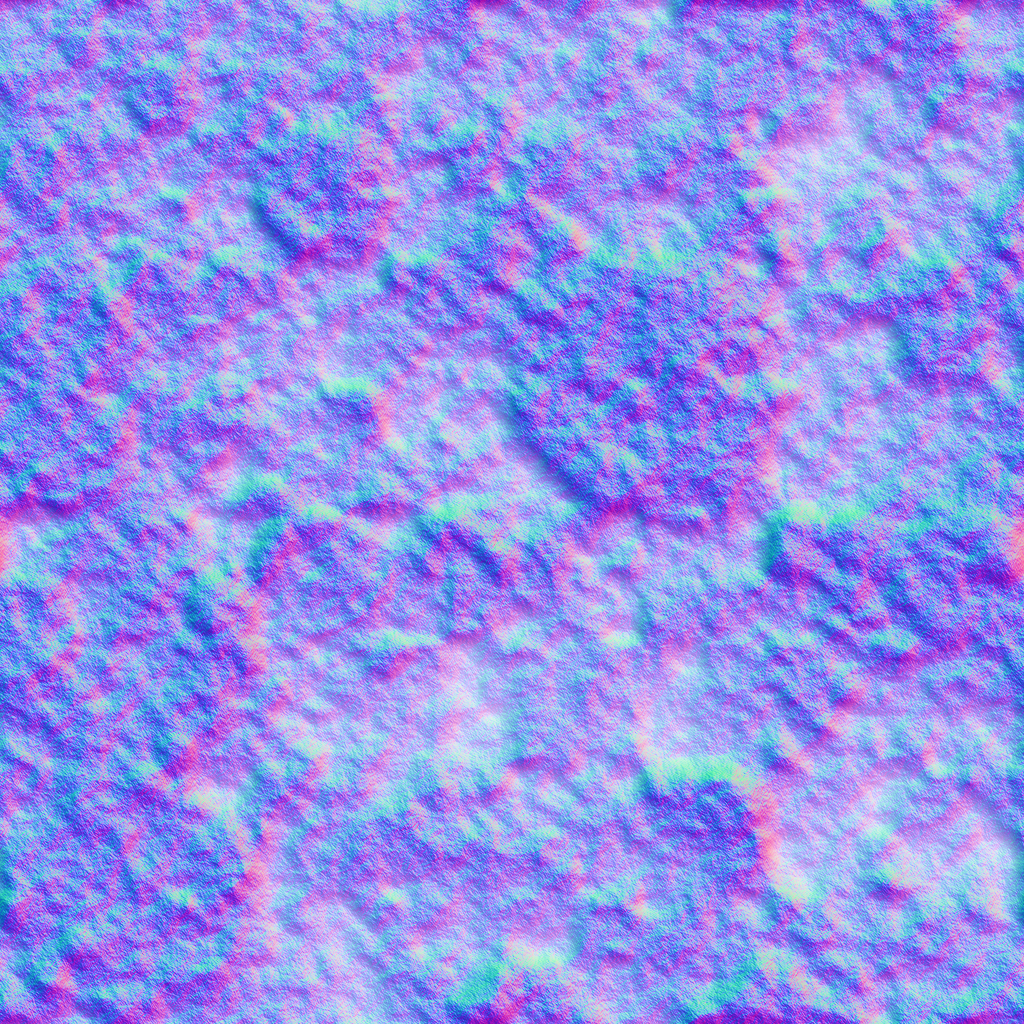
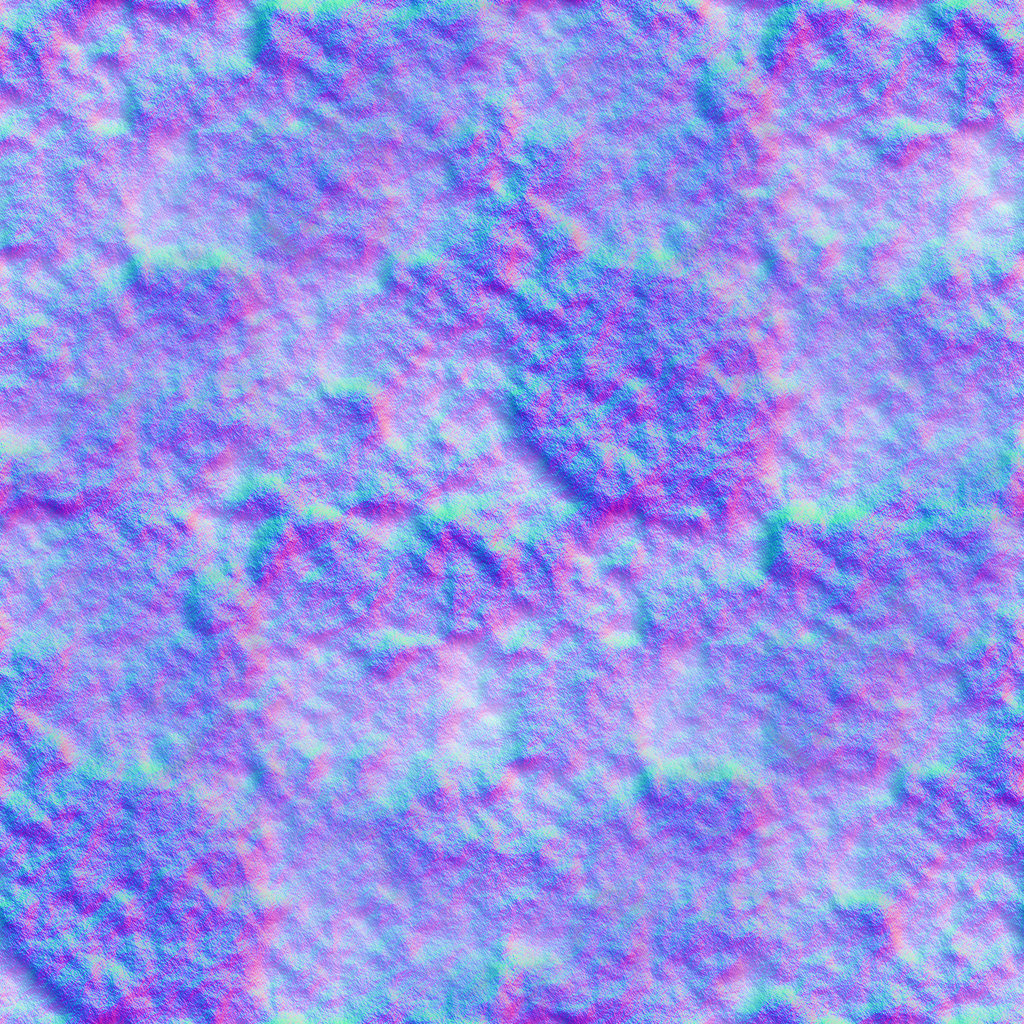
better tiling

diff --git a/scripts/tile.js b/scripts/tile.js
@@ -25,46 +25,182 @@ BSWG.tile = function (image, imgX, imgY, tileMask, color, water) {
     });
 
     var mSize = BSWG.tileMeshSize; //water ? 4 : BSWG.tileMeshSize;
-    this.geom = new THREE.PlaneBufferGeometry(BSWG.tileSizeWorld, BSWG.tileSizeWorld, mSize-1, mSize-1);
+    this.geom = new THREE.PlaneBufferGeometry(BSWG.tileSizeWorld, BSWG.tileSizeWorld, mSize, mSize);
     var verts = this.geom.attributes.position;
-
-    var offset = 0;
+    var norms = this.geom.attributes.normal;
 
     var gSize = BSWG.tileSize / mSize;
-    var sSize = BSWG.tileSizeWorld / (BSWG.tileSize-gSize);
+    var sSize = BSWG.tileSizeWorld / BSWG.tileSize;
 
     if (water) {
         sSize *= 10000.0;
     }
 
-    for (var iy = 0; iy < BSWG.tileSize; iy += gSize) {
-        for (var ix = 0; ix < BSWG.tileSize; ix += gSize) {
+    var offset = 0;
 
-            var x = (ix * sSize - sSize*0.5) * (1 + (water ? 0 : 1.01 / BSWG.tileSize));
-            var y = (-(iy * sSize - sSize*0.5)) * (1 + (water ? 0 : 1.01 / BSWG.tileSize));
+    for (var iy = 0; iy <= BSWG.tileSize; iy += gSize) {
+        for (var ix = 0; ix <= BSWG.tileSize; ix += gSize) {
 
-            var x2 = ix;
-            var y2 = iy;
-            if ((ix + gSize) === BSWG.tileSize) {
-                x2 = BSWG.tileSize - 1;
-            }
-            if ((iy + gSize) === BSWG.tileSize) {
-                y2 = BSWG.tileSize - 1;
-            }
+            var x = (ix * sSize - sSize*0.5) * (1 + (water ? 0 : 1.005 / BSWG.tileSize));
+            var y = (-(iy * sSize - sSize*0.5)) * (1 + (water ? 0 : 1.005 / BSWG.tileSize));
+
+            var x2 = ~~(ix / (BSWG.tileSize) * (BSWG.tileSize-0.001));
+            var y2 = ~~(iy / (BSWG.tileSize) * (BSWG.tileSize-0.001));
 
             var z = BSWG.tileHeightWorld * self.heightMap[x2 + y2*BSWG.tileSize]/255;
 
             verts.array[offset+0] = x;
             verts.array[offset+1] = y;
             verts.array[offset+2] = z;
-            
+          
             offset += 3;
         }
     }
-    //verts.dynamic = true;
+
+    this.geom.computeVertexNormalsTile = function () {
+
+        var index = this.index;
+        var attributes = this.attributes;
+        var groups = this.groups;
+
+        if ( attributes.position ) {
+
+            var positions = attributes.position.array;
+
+            if ( attributes.normal === undefined ) {
+
+                this.addAttribute( 'normal', new THREE.BufferAttribute( new Float32Array( positions.length ), 3 ) );
+
+            } else {
+
+                // reset existing normals to zero
+
+                var array = attributes.normal.array;
+
+                for ( var i = 0, il = array.length; i < il; i ++ ) {
+
+                    array[ i ] = 0;
+
+                }
+
+            }
+
+            var normals = attributes.normal.array;
+
+            var vA, vB, vC,
+
+            pA = new THREE.Vector3(),
+            pB = new THREE.Vector3(),
+            pC = new THREE.Vector3(),
+
+            cb = new THREE.Vector3(),
+            ab = new THREE.Vector3();
+
+            var indices = index.array;
+
+            if ( groups.length === 0 ) {
+
+                this.addGroup( 0, indices.length );
+
+            }
+
+            for ( var j = 0, jl = groups.length; j < jl; ++ j ) {
+
+                var group = groups[ j ];
+
+                var start = group.start;
+                var count = group.count;
+
+                var mask = tileMask;
+
+                var V = function(X, Y) {
+
+                    X *= gSize;
+                    Y *= gSize;
+
+                    var _x = (X * sSize - sSize*0.5) * (1 + (water ? 0 : 1.005 / BSWG.tileSize));
+                    var _y = (-(Y * sSize - sSize*0.5)) * (1 + (water ? 0 : 1.005 / BSWG.tileSize));
+
+                    if ((mask & 1) && (mask & 2) && X<0) {
+                        X = (((X/gSize) + (mSize+1) * 100) % (mSize+1)) * gSize;
+                    }
+                    else if (X<0) {
+                        X = 0;
+                    }
+                    if ((mask & 2) && (mask & 1) && (X/gSize)>mSize) {
+                        X = (((X/gSize) + (mSize+1) * 100) % (mSize+1)) * gSize;
+                    }
+                    else if ((X/gSize)>mSize) {
+                        X = mSize*gSize;
+                    }
+
+                    if ((mask & 4) && (mask & 8) && Y<0) {
+                        Y = (((Y/gSize) + (mSize+1) * 100) % (mSize+1)) * gSize;
+                    }
+                    else if (Y<0) {
+                        Y = 0;
+                    }
+                    if ((mask & 8) && (mask & 4) && (Y/gSize)>mSize) {
+                        Y = (((Y/gSize) + (mSize+1) * 100) % (mSize+1)) * gSize;
+                    }
+                    else if ((Y/gSize)>mSize) {
+                        Y = mSize*gSize;
+                    }
+
+                    var x2 = ~~(X / (BSWG.tileSize) * (BSWG.tileSize-0.001));
+                    var y2 = ~~(Y / (BSWG.tileSize) * (BSWG.tileSize-0.001));
+                    var _z = BSWG.tileHeightWorld * self.heightMap[x2 + y2*BSWG.tileSize]/255;
+
+                    return new THREE.Vector3(_x, _y, _z);
+
+                };
+
+                var off = [
+                    [  1,  0 ],
+                    [  1, -1 ],
+                    [  0, -1 ],
+                    [ -1, -1 ],
+                    [ -1,  0 ],
+                    [ -1,  1 ],
+                    [  0,  1 ],
+                    [  1,  1 ]
+                ]
+
+                var idx = 0;
+                for (var y = 0; y <= mSize; y++) {
+                    for (var x = 0; x <= mSize; x++) {
+
+                        for (var i=0; i<off.length; i++) {
+                            var j = (i+1)%off.length;
+                            pA = V(x, y);
+                            pB = V(x + off[i][0], y + off[i][1]);
+                            pC = V(x + off[j][0], y + off[j][1]);
+
+                            cb.subVectors( pC, pB );
+                            ab.subVectors( pA, pB );
+                            cb.cross( ab );
+
+                            normals[ idx + 0 ] += cb.x;
+                            normals[ idx + 1 ] += cb.y;
+                            normals[ idx + 2 ] += cb.z;
+                        }
+
+                        idx += 3;
+                    }
+                }
+
+            }
+
+            this.normalizeNormals();
+
+            attributes.normal.needsUpdate = true;
+
+        }
+
+    };
 
     this.geom.computeFaceNormals();
-    this.geom.computeVertexNormals();
+    this.geom.computeVertexNormalsTile();
     this.geom.computeBoundingBox();
 
     var lp = BSWG.render.unproject3D(new b2Vec2(BSWG.render.viewport.w*3.0, BSWG.render.viewport.h*0.5), 0.0);
@@ -198,7 +334,7 @@ BSWG.testMap = {
         isBelow: true
     },
     'water': {
-        color: [0.05*0.5, 0.4*0.5, 0.75*0.5, 0.75],
+        color: [0.05*0.5, 0.4*0.5, 0.75*0.5, 0.5],
         level: 0.25,
         isWater: true
     }
@@ -308,11 +444,12 @@ BSWG.tileSet = function (imageName, color, waterLevel) {
             ctx.fillRect(0, 0, w, h);
         }
         else {
+            var ovr = 1;
             ctx.drawImage(image, 0, 0);
-            ctx.drawImage(image, BSWG.tileSize-1, 0,    1, h,   BSWG.tileSize-1, 0,     3, h);
-            ctx.drawImage(image, BSWG.tileSize*2-1, 0,  1, h,   BSWG.tileSize*2-1, 0,   3, h);
-            ctx.drawImage(image, 0, BSWG.tileSize-1,    w, 1,   0, BSWG.tileSize-1,     w, 3);
-            ctx.drawImage(image, 0, BSWG.tileSize*2-1,  w, 1,   0, BSWG.tileSize*2-1,   w, 3);
+            ctx.drawImage(image, BSWG.tileSize-1, 0,    1, h,   BSWG.tileSize-ovr, 0,     ovr*2, h);
+            ctx.drawImage(image, BSWG.tileSize*2-1, 0,  1, h,   BSWG.tileSize*2-ovr, 0,   ovr*2, h);
+            ctx.drawImage(image, 0, BSWG.tileSize-1,    w, 1,   0, BSWG.tileSize-ovr,     w, ovr*2);
+            ctx.drawImage(image, 0, BSWG.tileSize*2-1,  w, 1,   0, BSWG.tileSize*2-ovr,   w, ovr*2);
         }
     }, true);
 

diff --git a/scripts/render.js b/scripts/render.js
@@ -235,7 +235,7 @@ BSWG.render = new function() {
         this.loader = new THREE.JSONLoader();
         this.raycaster = new THREE.Raycaster();
     
-        this.cam3DS = new THREE.PerspectiveCamera(85, 1.5, 1.0, 1000);
+        this.cam3DS = new THREE.PerspectiveCamera(90, 1.5, 1.0, 1000);
         this.cam3DS.aspect = 1.0;
         this.cam3DS.updateProjectionMatrix();
         this.cam3DS.position.z = 10.0;
@@ -407,7 +407,7 @@ BSWG.render = new function() {
 
     };
 
-    this.heightMapToNormalMap = function (srcHm, dstCtx, w, h, tileMask) {
+    this.heightMapToNormalMap = function (srcHm, dstCtx, w, h, tileMask, normalBfr) {
 
         tileMask = tileMask || 0;
 
@@ -451,6 +451,12 @@ BSWG.render = new function() {
             }
             else {
                 dx /= len; dy /= len; dz /= len;
+            }
+
+            if (normalBfr) {
+                normalBfr.push(dx);
+                normalBfr.push(dy);
+                normalBfr.push(dz);
             }
 
             imgData.data[i]   = O((dx + 1.0) * 0.5);
